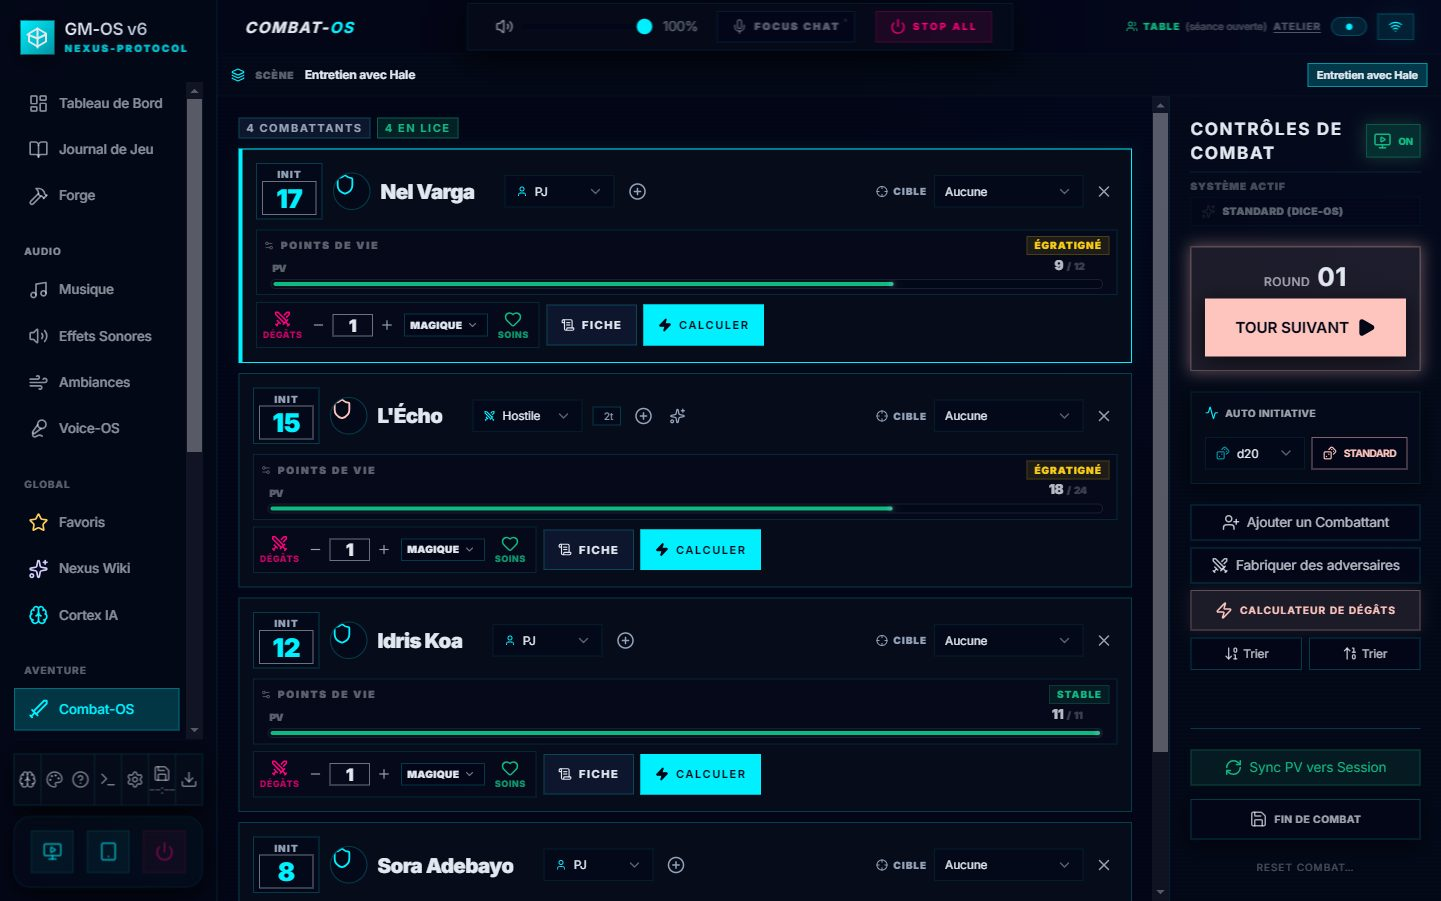
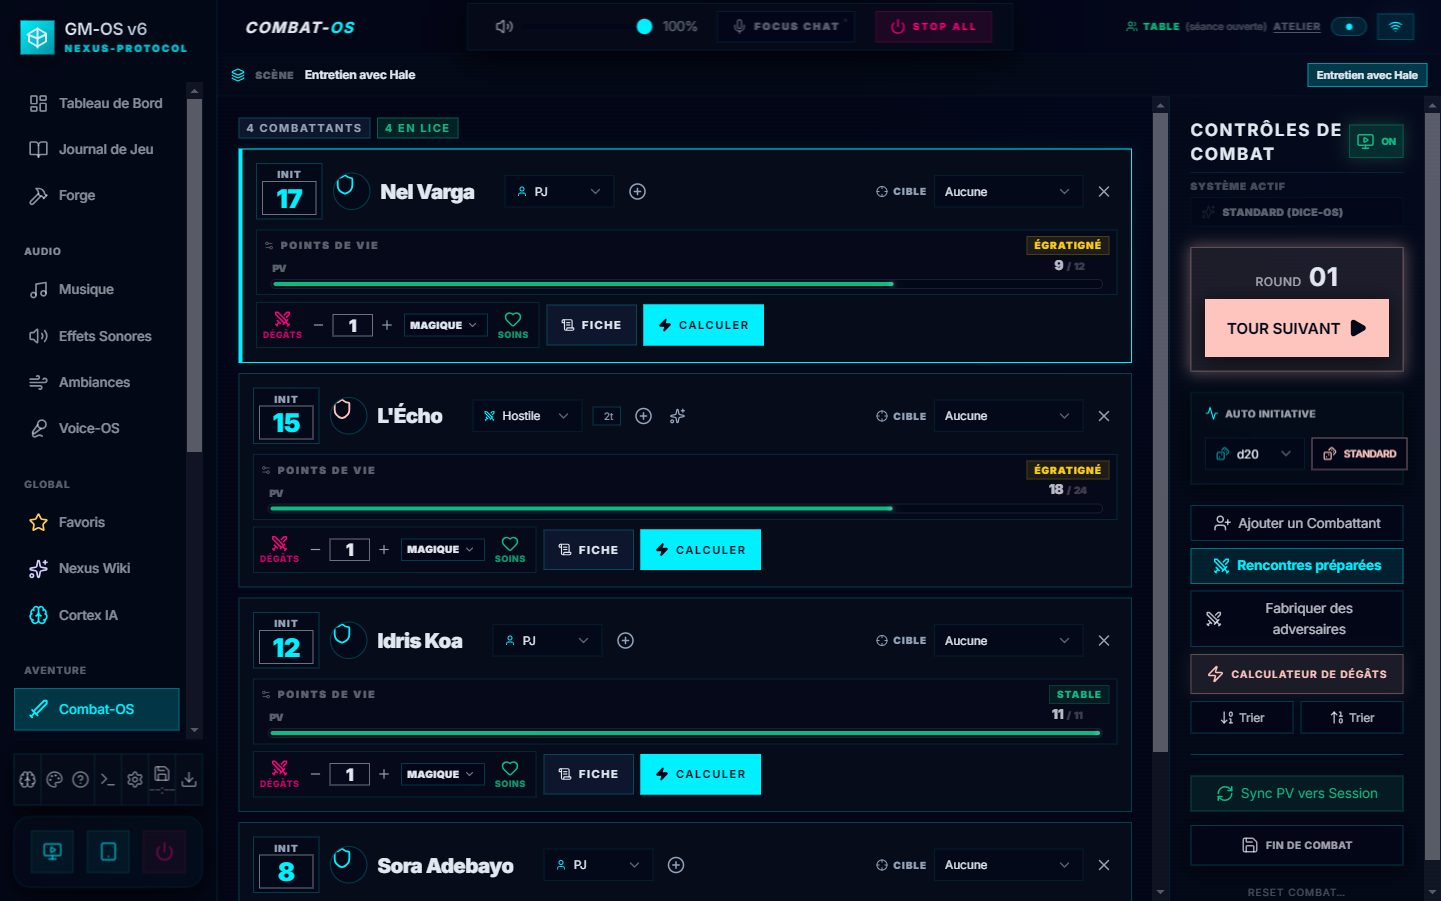
docs(guides): les captures de l ecran Scene en cours et des rencontres preparees
Quatre captures nouvelles (l ecran Scene en cours, la section Rencontres de
la Trame, le panneau des rencontres, Qui entre ?) et trois remplacees parce
que l ecran a change (la fiche de scene, Combat-OS, la fiche d un PNJ).
Produites par e2e/capturesDuManuel.spec.ts sur la campagne de demonstration.

Changed region(s): [[0.8119, 0.1243, 0.9993, 0.9945], [0.8432, 0.2175, 0.9368, 0.2486], [0.8432, 0.4972, 0.8744, 0.5283]]

diff --git a/documentation/User Guides/30-Combat-OS.md b/documentation/User Guides/30-Combat-OS.md
@@ -160,10 +160,14 @@ Ce que devient le plateau quand on le garde :
 **Rencontres préparées** liste, dans l'ordre : celles de la **scène du combat**, des **scènes en
 cours**, les **rencontres libres**, puis — repliées — celles des autres scènes.
 
+![Le panneau des rencontres préparées : « Garder le plateau comme rencontre… » en tête, la rencontre de la scène du combat, puis une rencontre libre](captures/combat-rencontres.jpg)
+
 1. **Invoquer** ouvre **« Qui entre ? »** : les PJ de la campagne, **cochés d'avance quand la
    scène les déclare présents**, grisés s'ils sont déjà au combat. **Entrée** valide.
 2. Le combat se rattache à la scène de la rencontre ; une rencontre libre rejoint la scène du
    combat, ou la seule scène en cours.
+![« Qui entre ? » : Idris Koa est coché d'avance, la scène le déclare présent](captures/combat-qui-entre.jpg)
+
 3. Une seconde invocation **ajoute** au plateau — les renforts. Une rencontre d'une autre scène
    **gare** le combat en cours et passe à la sienne.
 

diff --git a/documentation/User Guides/11-Trame-actes-et-scenes.md b/documentation/User Guides/11-Trame-actes-et-scenes.md
@@ -67,6 +67,8 @@ même raison.
 *Ajoutées le 2026-10-12.* Sous les indices, la section **Rencontres** prépare les combats de la
 scène — une scène peut en avoir plusieurs (« la patrouille », « les renforts au round 3 »).
 
+![La fiche d'Entretien avec Hale : ses battlemaps, puis la rencontre « Les gardes de Hale » dépliée — trois gardes et Hale lui-même, en ennemis](captures/session-trame-scene-rencontres.jpg)
+
 - **Nouvelle rencontre** en crée une ; dépliez-la pour la nommer et la composer.
 - **+ Ajouter…** prend une ligne dans le **bestiaire du jeu**, les **PNJ de la scène**, un
   **archétype** (avec son rang) ou les autres PNJ de la campagne. Le nombre proposé suit le rang,

diff --git a/documentation/User Guides/15-Scene-en-cours.md b/documentation/User Guides/15-Scene-en-cours.md
@@ -5,6 +5,8 @@ démarre une scène, ses informations ne sont pas facilement accessibles »*. To
 [Trame](./11-Trame-actes-et-scenes.md) a préparé pour une scène se lisait en dépliant sa ligne, en
 noms seuls. Cet écran le met **en plein écran, dans l'ordre où l'on s'en sert**.
 
+![L'écran « Scène en cours » sur Entretien avec Hale : description, enjeux, répliques et notes à gauche ; musique, indices, PNJ, lieu et battlemap, rencontres à droite](captures/scene-en-cours.jpg)
+
 ---
 
 ## 1. Quand il s'ouvre, et comment le refermer
